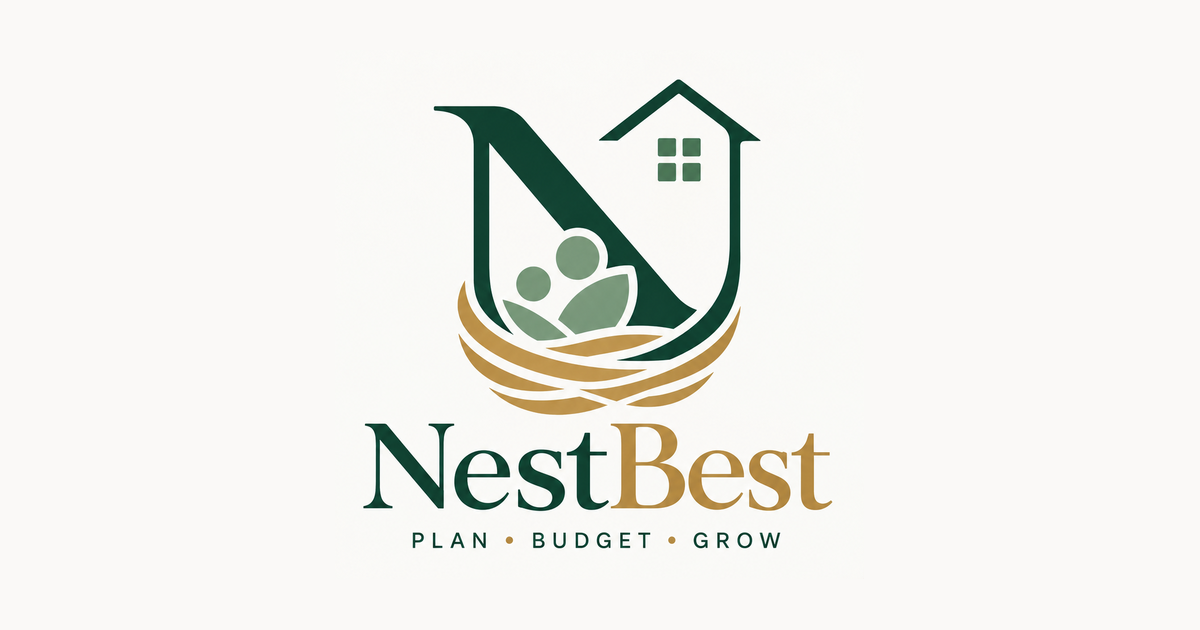
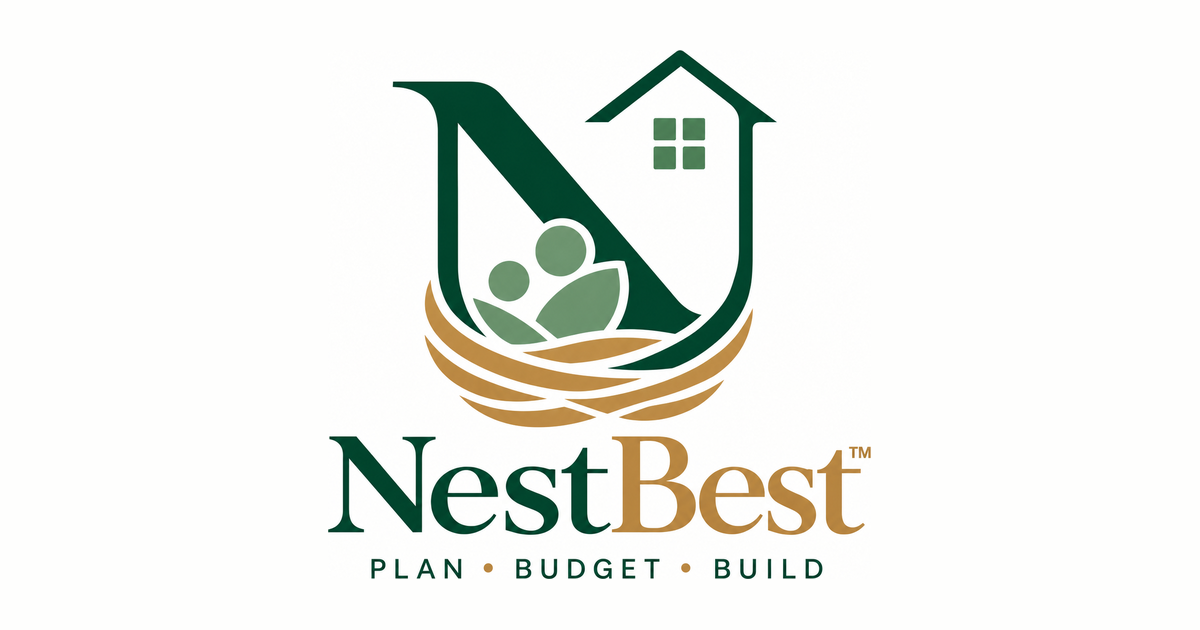
Update NestBest Plan Budget Build static branding

Changed region(s): [[0.2775, 0.0603, 0.74, 0.9349]]

diff --git a/index.html b/index.html
@@ -3,7 +3,7 @@
 <head>
 <meta charset="utf-8">
 <meta name="viewport" content="width=device-width, initial-scale=1, viewport-fit=cover">
-<title>NestBest — Plan, Budget, Grow</title>
+<title>NestBest — Plan, Budget, Build</title>
 <meta name="description" content="Your budget, your savings, and your net worth — quietly in your pocket. Private, no download, works right in your browser.">
 <link rel="canonical" href="https://mynestbest.com/">
 
@@ -21,15 +21,15 @@
 <!-- Social share preview -->
 <meta property="og:type" content="website">
 <meta property="og:site_name" content="NestBest">
-<meta property="og:title" content="NestBest — Plan, Budget, Grow">
+<meta property="og:title" content="NestBest — Plan, Budget, Build">
 <meta property="og:description" content="Your budget, your savings, and your net worth — quietly in your pocket. Private, no download, works right in your browser.">
 <meta property="og:url" content="https://mynestbest.com/">
 <meta property="og:image" content="https://mynestbest.com/nestbest-social-preview.png">
 <meta property="og:image:width" content="1200">
 <meta property="og:image:height" content="630">
-<meta property="og:image:alt" content="NestBest — Plan · Budget · Grow">
+<meta property="og:image:alt" content="NestBest — Plan · Budget · Build">
 <meta name="twitter:card" content="summary_large_image">
-<meta name="twitter:title" content="NestBest — Plan, Budget, Grow">
+<meta name="twitter:title" content="NestBest — Plan, Budget, Build">
 <meta name="twitter:description" content="Your budget, your savings, and your net worth — quietly in your pocket.">
 <meta name="twitter:image" content="https://mynestbest.com/nestbest-social-preview.png">
 
@@ -111,6 +111,7 @@
   #splash{display:none;position:fixed;inset:0;z-index:9999;background:var(--bg);flex-direction:column;align-items:center;justify-content:center;gap:20px;padding:24px;text-align:center}
   #splash img{width:92px;height:92px;border-radius:22px;box-shadow:var(--shadow)}
   #splash .spname{font-family:"Fraunces",Georgia,serif;font-weight:600;font-size:27px;color:var(--ink)}
+  #splash .spname .tm{font-size:0.5em;vertical-align:super;font-weight:600}
   #splash .sprow{display:flex;align-items:center;gap:10px;color:var(--ink-2);font-size:14px}
   #splash .spin{width:16px;height:16px;border:2px solid var(--line);border-top-color:var(--green);border-radius:50%;display:inline-block;animation:nwspin .8s linear infinite}
   .feats{display:flex;flex-direction:column;margin-top:2px}
@@ -130,13 +131,13 @@
 <body>
 <div id="splash">
   <img src="apple-touch-icon.png" alt="">
-  <div class="spname">NestBest™</div>
+  <div class="spname">NestBest<sup class="tm">™</sup></div>
   <div class="sprow"><span class="spin"></span>Opening NestBest…</div>
 </div>
 <div class="wrap">
   <div class="hero">
     <div class="logopanel">
-      <img class="logo" src="NestBest%20Logo.png" onerror="this.onerror=null;this.src='icon-512.png'" alt="NestBest — Plan, Budget, Grow. Build the life you love.">
+      <img class="logo" src="NestBest%20Logo.png" onerror="this.onerror=null;this.src='icon-512.png'" alt="NestBest logo — Plan · Budget · Build">
     </div>
     <p class="tag">Your budget, your savings, and your net worth — quietly in your pocket.</p>
   </div>
@@ -146,13 +147,13 @@
       <svg viewBox="0 0 24 24" fill="none" stroke="currentColor" stroke-width="2.4" stroke-linecap="round" stroke-linejoin="round"><path d="M5 12h14M13 6l6 6-6 6"/></svg>
     </a>
     <div class="cta-note">Free · nothing to install · works right in your browser</div>
-    <div class="transition-note"><b>NestWorth is now NestBest™.</b> Your existing budgets stay in your Google Drive and continue to work here — no data migration required.</div>
+    <div class="transition-note"><b>NestWorth is now NestBest™.</b> Your existing budgets stay in your Google Drive and continue to work here. No data migration required.</div>
   </div>
 
   <div class="card">
     <p class="eyebrow">What it is</p>
     <h2 class="disp">Money planning that understands real life.</h2>
-    <p style="margin:0;color:var(--ink-2)">Your spending, your paychecks, your savings goals, your cash flow and your net worth — working together in one private place, instead of scattered across five different apps. Log what you spend in a couple of taps, plan around your <b>actual</b> paydays, save toward what matters, and see where your year is headed. No spreadsheets to wrestle, nothing to download — NestBest builds you a private space and quietly does the math for you.</p>
+    <p style="margin:0;color:var(--ink-2)">Your spending, your paychecks, your savings goals, your cash flow and your net worth, working together in one private place, instead of scattered across five different apps. Log what you spend in a couple of taps, plan around your <b>actual</b> paydays, save toward what matters, and see where your year is headed. No spreadsheets to wrestle, nothing to download. NestBest builds you a private space and quietly does the math for you.</p>
   </div>
   <div class="card">
     <p class="eyebrow">What makes it different</p>
@@ -164,15 +165,15 @@
       </div>
       <div class="feat">
         <h3>Saving shouldn't disappear from your net worth.</h3>
-        <p>Money you move toward a goal is treated as savings — not spending — and it stays properly reflected in your bigger financial picture. Putting $800 into a car fund doesn't look like $800 gone.</p>
+        <p>Money you move toward a goal is treated as savings, not spending, and it stays properly reflected in your bigger financial picture. Putting $800 into a car fund doesn't look like $800 gone.</p>
       </div>
       <div class="feat">
         <h3>Your budget remembers.</h3>
-        <p>Unused money in a category can carry forward, and a shared contingency cushion absorbs the months when real life doesn't follow the plan — so one tight week doesn't quietly break everything else.</p>
+        <p>Unused money in a category can carry forward, and a shared contingency cushion absorbs the months when real life doesn't follow the plan, so one tight week doesn't quietly break everything else.</p>
       </div>
       <div class="feat">
         <h3>See a big decision before you make it.</h3>
-        <p>Wondering what buying the car — or taking the trip — would do to the rest of your year? NestBest can model the choice against your real plan, not just tell you what you spent last month.</p>
+        <p>Wondering what buying the car (or taking the trip) would do to the rest of your year? NestBest can model the choice against your real plan, not just tell you what you spent last month.</p>
       </div>
     </div>
   </div>
@@ -180,32 +181,32 @@
     <img class="wren-pic" src="wren/guiding.png" alt="Wren, the friendly NestBest bird, holding a map" loading="lazy">
     <p class="eyebrow">Meet Wren</p>
     <h2 class="disp">Your money, explained in plain English.</h2>
-    <p style="margin:0;color:var(--ink-2)">Ask what's driving your spending this month, whether you're on pace for a goal, why things feel tighter than usual, or what a big purchase would mean for your plan. Wren answers from the very same numbers NestBest uses everywhere else — it never makes up its own.</p>
+    <p style="margin:0;color:var(--ink-2)">Ask what's driving your spending this month, whether you're on pace for a goal, why things feel tighter than usual, or what a big purchase would mean for your plan. Wren answers from the very same numbers NestBest uses everywhere else. It never makes up its own.</p>
     <p class="wren-line"><b>NestBest computes. Wren interprets.</b></p>
   </div>
   <div class="card trust">
     <p class="eyebrow">The math matters here</p>
     <h2 class="disp">Built carefully. Tested relentlessly.</h2>
-    <p>This isn't a play app. Your budget, your cash flow, your savings goals and your net worth should never tell four different stories — so NestBest runs on <b>one</b> financial model across the whole app, and that model is checked against many thousands of real-life situations: refunds, irregular paydays, three-paycheck months, money moved into goals, future-dated transactions, and the messy edge cases real households actually run into. When the numbers show up, they agree. <a class="plainlink" href="about.html" style="font-weight:600">See how NestBest works &amp; how we test it →</a></p>
+    <p>This isn't a play app. Your budget, your cash flow, your savings goals and your net worth should never tell four different stories, so NestBest runs on <b>one</b> financial model across the whole app, and that model is checked against many thousands of real-life situations: refunds, irregular paydays, three-paycheck months, money moved into goals, future-dated transactions, and the messy edge cases real households actually run into. When the numbers show up, they agree. <a class="plainlink" href="about.html" style="font-weight:600">See how NestBest works &amp; how we test it →</a></p>
   </div>
   <div class="privacy">
     <svg viewBox="0 0 24 24" fill="none" stroke="currentColor" stroke-width="2" stroke-linecap="round" stroke-linejoin="round"><path d="M12 22s8-4 8-10V5l-8-3-8 3v7c0 6 8 10 8 10z"/><path d="M9 12l2 2 4-4"/></svg>
     <div>
       <h3>Your financial life doesn't live on our servers.</h3>
-      <p>NestBest creates your budget inside your <b>own</b> Google Drive and connects to it straight from your browser, using a single limited Google permission. There's no NestBest database holding your household's numbers, and no advertising profile built on your spending. Only you can see your budget — not the person who shared the app, not anyone else. <a class="plainlink" href="privacy.html" style="font-weight:600">Read the privacy policy</a>.</p>
+      <p>NestBest creates your budget inside your <b>own</b> Google Drive and connects to it straight from your browser, using a single limited Google permission. There's no NestBest database holding your household's numbers, and no advertising profile built on your spending. Only you can see your budget, not the person who shared the app, not anyone else. <a class="plainlink" href="privacy.html" style="font-weight:600">Read the privacy policy</a>.</p>
     </div>
   </div>
   <div class="card">
     <p class="eyebrow">Getting started</p>
     <h2 class="disp">Three taps and you're in.</h2>
     <ol class="steps">
-      <li><div><b>Tap “Open NestBest” above.</b> <span class="sub">— or open the link someone sent you, then <b>sign in with Google</b> and approve the one permission NestBest asks for.</span></div></li>
-      <li><div><b>NestBest builds your budget.</b> <span class="sub">It sets up a private budget just for you automatically, then a quick setup helps you add your spending categories and income. Takes a few seconds — and you can change anything later.</span></div></li>
+      <li><div><b>Tap “Open NestBest” above.</b> <span class="sub">Or open the link someone sent you, then <b>sign in with Google</b> and approve the one permission NestBest asks for.</span></div></li>
+      <li><div><b>NestBest builds your budget.</b> <span class="sub">It sets up a private budget just for you automatically, then a quick setup helps you add your spending categories and income. Takes a few seconds, and you can change anything later.</span></div></li>
       <li><div><b>Add it to your home screen.</b> <span class="sub">On iPhone (Safari): the Share button ▸ Add to Home Screen ▸ Add. On Android (Chrome): menu ⋮ ▸ Add to Home screen. Now it opens in one tap, like a real app.</span></div></li>
     </ol>
   </div>
-  <p class="mini"><b>Personal and family?</b> Once you’re in, open <b>Settings &#9656; Your budgets &#9656; New budget</b> to create a shared household budget, then use <b>Settings &#9656; Share this budget</b> to invite your family. A name pill appears at the top to switch between them &mdash; and everyone still keeps their own private one.</p>
-  <p class="mini">Want to snap photos of receipts? It's optional — in the app, open <b>Settings ▸ Receipt scanning</b> and paste a free key. Skip it if you'd rather just type.</p>
+  <p class="mini"><b>Personal and family?</b> Once you’re in, open <b>Settings &#9656; Your budgets &#9656; New budget</b> to create a shared household budget, then use <b>Settings &#9656; Share this budget</b> to invite your family. A name pill appears at the top to switch between them, and everyone still keeps their own private one.</p>
+  <p class="mini">Want to snap photos of receipts? It's optional. In the app, open <b>Settings ▸ Receipt scanning</b> and paste a free key. Skip it if you'd rather just type.</p>
   <footer>
     <p class="who"><a class="mail" href="about.html">How it works</a> &nbsp;·&nbsp; <a class="mail" href="privacy.html">Privacy</a> &nbsp;·&nbsp; <a class="mail" href="terms.html">Terms</a></p>
     <p class="who">Questions or feedback? Email <a class="mail" href="mailto:ulmer.holland.consulting@gmail.com">Dr. Candice Z. Ulmer Holland, Ph.D.</a></p>
